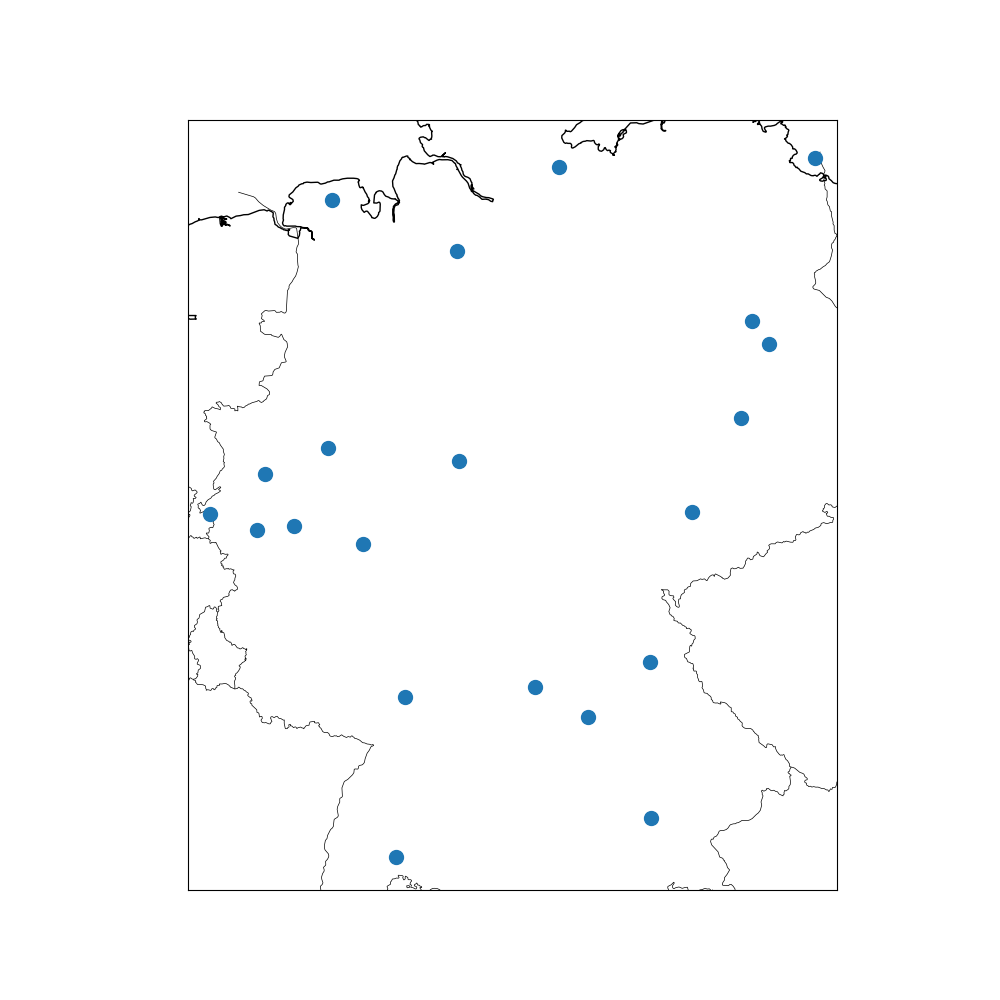
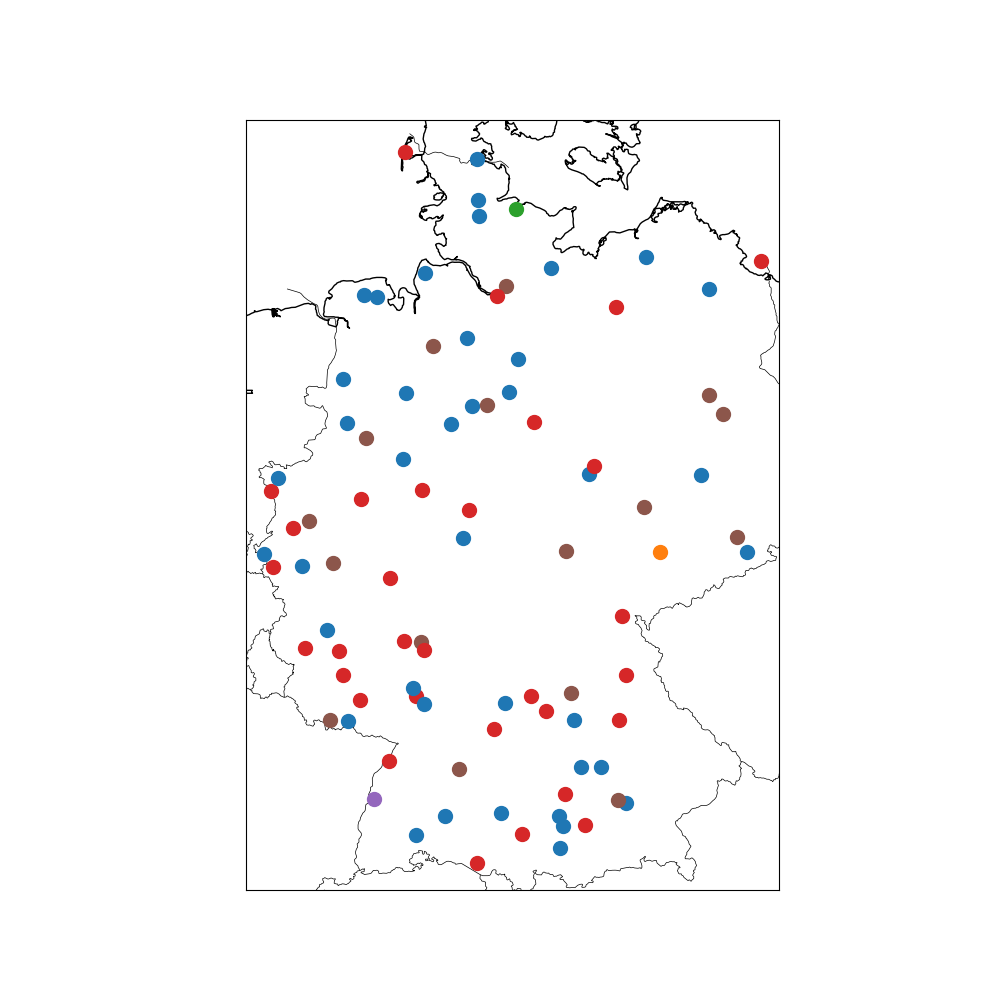
Question 3

diff --git a/find_k.py b/find_k.py
@@ -1,0 +1,110 @@
+from sklearn.datasets import make_blobs
+from sklearn.cluster import KMeans
+from sklearn.metrics import silhouette_samples, silhouette_score
+
+import matplotlib.pyplot as plt
+import matplotlib.cm as cm
+import numpy as np
+
+from question_3 import *
+
+year_start = 2011
+year_end = 2013
+
+stations, station_values = aggregate_by_stations(year_start, year_end)
+
+print(__doc__)
+
+
+# Generating the sample data from make_blobs
+# This particular setting has one distinct cluster and 3 clusters placed close
+# together.
+X = station_values
+range_n_clusters = [2, 3, 4, 5, 6, 7, 8, 9, 10, 11]
+
+for n_clusters in range_n_clusters:
+    # Create a subplot with 1 row and 2 columns
+    fig, (ax1, ax2) = plt.subplots(1, 2)
+    fig.set_size_inches(18, 7)
+
+    # Initialize the clusterer with n_clusters value and a random generator
+    # seed of 10 for reproducibility.
+    clusterer, cluster_labels, X_hat = kmeans_missing(X, n_clusters, random_state=10)
+
+
+    # The 1st subplot is the silhouette plot
+    # The silhouette coefficient can range from -1, 1 but in this example all
+    # lie within [-0.1, 1]
+    ax1.set_xlim([-0.1, 1])
+    # The (n_clusters+1)*10 is for inserting blank space between silhouette
+    # plots of individual clusters, to demarcate them clearly.
+    ax1.set_ylim([0, len(X_hat) + (n_clusters + 1) * 10])
+
+
+    # The silhouette_score gives the average value for all the samples.
+    # This gives a perspective into the density and separation of the formed
+    # clusters
+    silhouette_avg = silhouette_score(X_hat, cluster_labels)
+    print("For n_clusters =", n_clusters,
+          "The average silhouette_score is :", silhouette_avg)
+
+    # Compute the silhouette scores for each sample
+    sample_silhouette_values = silhouette_samples(X_hat, cluster_labels)
+
+    y_lower = 10
+    for i in range(n_clusters):
+        # Aggregate the silhouette scores for samples belonging to
+        # cluster i, and sort them
+        ith_cluster_silhouette_values = \
+            sample_silhouette_values[cluster_labels == i]
+
+        ith_cluster_silhouette_values.sort()
+
+        size_cluster_i = ith_cluster_silhouette_values.shape[0]
+        y_upper = y_lower + size_cluster_i
+
+        color = cm.nipy_spectral(float(i) / n_clusters)
+        ax1.fill_betweenx(np.arange(y_lower, y_upper),
+                          0, ith_cluster_silhouette_values,
+                          facecolor=color, edgecolor=color, alpha=0.7)
+
+        # Label the silhouette plots with their cluster numbers at the middle
+        ax1.text(-0.05, y_lower + 0.5 * size_cluster_i, str(i))
+
+        # Compute the new y_lower for next plot
+        y_lower = y_upper + 10  # 10 for the 0 samples
+
+    ax1.set_title("The silhouette plot for the various clusters.")
+    ax1.set_xlabel("The silhouette coefficient values")
+    ax1.set_ylabel("Cluster label")
+
+    # The vertical line for average silhouette score of all the values
+    ax1.axvline(x=silhouette_avg, color="red", linestyle="--")
+
+    ax1.set_yticks([])  # Clear the yaxis labels / ticks
+    ax1.set_xticks([-0.1, 0, 0.2, 0.4, 0.6, 0.8, 1])
+
+    # 2nd Plot showing the actual clusters formed
+    colors = cm.nipy_spectral(cluster_labels.astype(float) / n_clusters)
+    ax2.scatter(X_hat[:, 0], X_hat[:, 1], marker='.', s=30, lw=0, alpha=0.7,
+                c=colors, edgecolor='k')
+
+    # Labeling the clusters
+    centers = clusterer.cluster_centers_
+    # Draw white circles at cluster centers
+    ax2.scatter(centers[:, 0], centers[:, 1], marker='o',
+                c="white", alpha=1, s=200, edgecolor='k')
+
+    for i, c in enumerate(centers):
+        ax2.scatter(c[0], c[1], marker='$%d$' % i, alpha=1,
+                    s=50, edgecolor='k')
+
+    ax2.set_title("The visualization of the clustered data.")
+    ax2.set_xlabel("Feature space for the 1st feature")
+    ax2.set_ylabel("Feature space for the 2nd feature")
+
+    plt.suptitle(("Silhouette analysis for KMeans clustering on sample data "
+                  "with n_clusters = %d" % n_clusters),
+                 fontsize=14, fontweight='bold')
+
+    plt.savefig('silhouette-{}-cluster.png'.format(n_clusters))

diff --git a/question_3.py b/question_3.py
@@ -2,6 +2,7 @@ from cassandra.cluster import Cluster
 from cassandra.query import tuple_factory
 import numpy as np
 from sklearn.cluster import KMeans
+from sklearn.decomposition import PCA
 from mpl_toolkits.basemap import Basemap
 import matplotlib.pyplot as plt
 
@@ -52,7 +53,7 @@ def clustering(values):
     return kmeans
 
 
-def kmeans_missing(X, n_clusters, max_iter=10):
+def kmeans_missing(X, n_clusters, max_iter=10, random_state=None):
     """This is from SO : https://stackoverflow.com/questions/35611465/python-scikit-learn-clustering-with-missing-data
     Perform K-Means clustering on data with missing values.
 
@@ -83,10 +84,10 @@ def kmeans_missing(X, n_clusters, max_iter=10):
             # faster and makes it easier to check convergence (since labels
             # won't be permuted on every iteration), but might be more prone to
             # getting stuck in local minima.
-            cls = KMeans(n_clusters, init=prev_centroids)
+            cls = KMeans(n_clusters, init=prev_centroids, random_state=random_state)
         else:
             # do multiple random initializations in parallel
-            cls = KMeans(n_clusters, n_jobs=-1)
+            cls = KMeans(n_clusters, n_jobs=-1, random_state=random_state)
 
         # perform clustering on the filled-in data
         labels = cls.fit_predict(X_hat)
@@ -102,7 +103,12 @@ def kmeans_missing(X, n_clusters, max_iter=10):
         prev_labels = labels
         prev_centroids = cls.cluster_centers_
 
-    return labels, centroids, X_hat
+    return cls, labels, X_hat
+
+
+def pca(X):
+    pca = PCA(n_components=2)
+    pca.fit(X)
 
 
 if __name__ == '__main__':
@@ -116,9 +122,9 @@ if __name__ == '__main__':
     year_end = int(sys.argv[2])
 
     print("1/3 : Aggregation over period {} - {}".format(year_start, year_end))
-    stations, station_values = aggregate_by_stations(year_start, year_start)
+    stations, station_values = aggregate_by_stations(year_start, year_end)
     print("2/3 : Running K-means")
-    labels, centroids, X_hat = kmeans_missing(station_values, 5)
+    clustering, labels, X_hat = kmeans_missing(station_values, 6)
 
     print("3/3 : Plot of the map")
     # Plot the map
